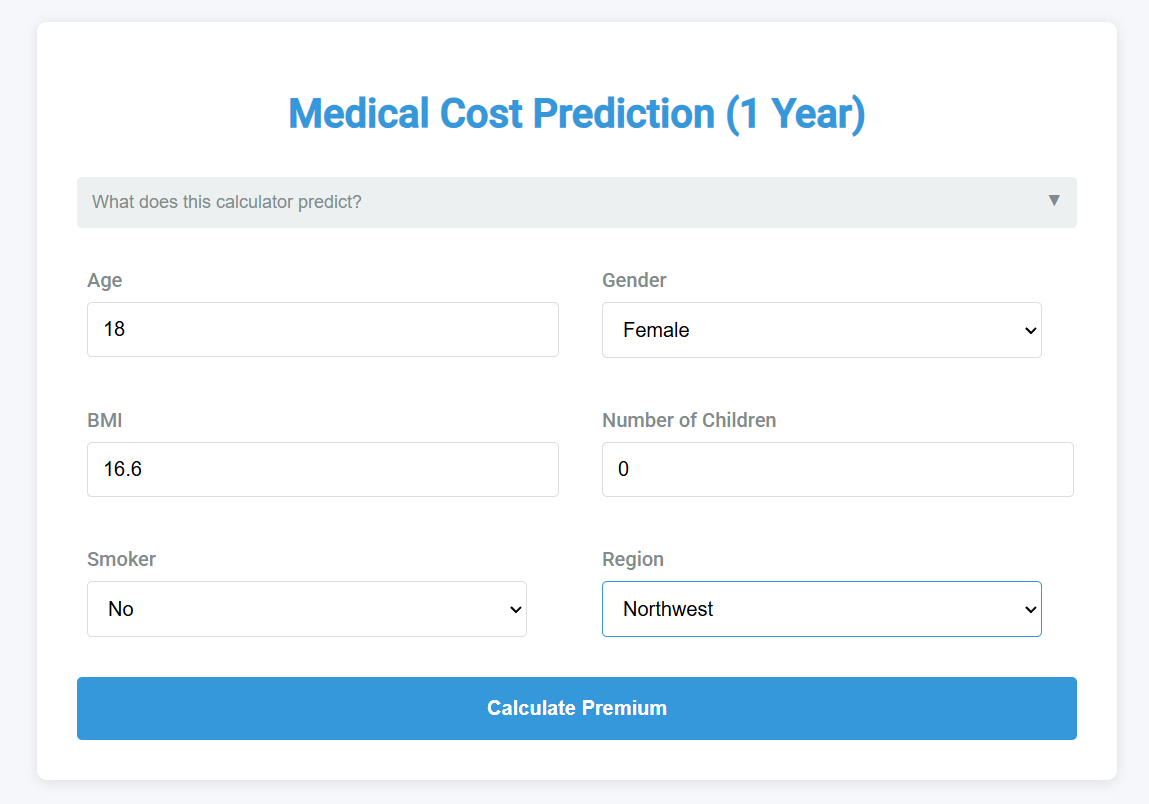
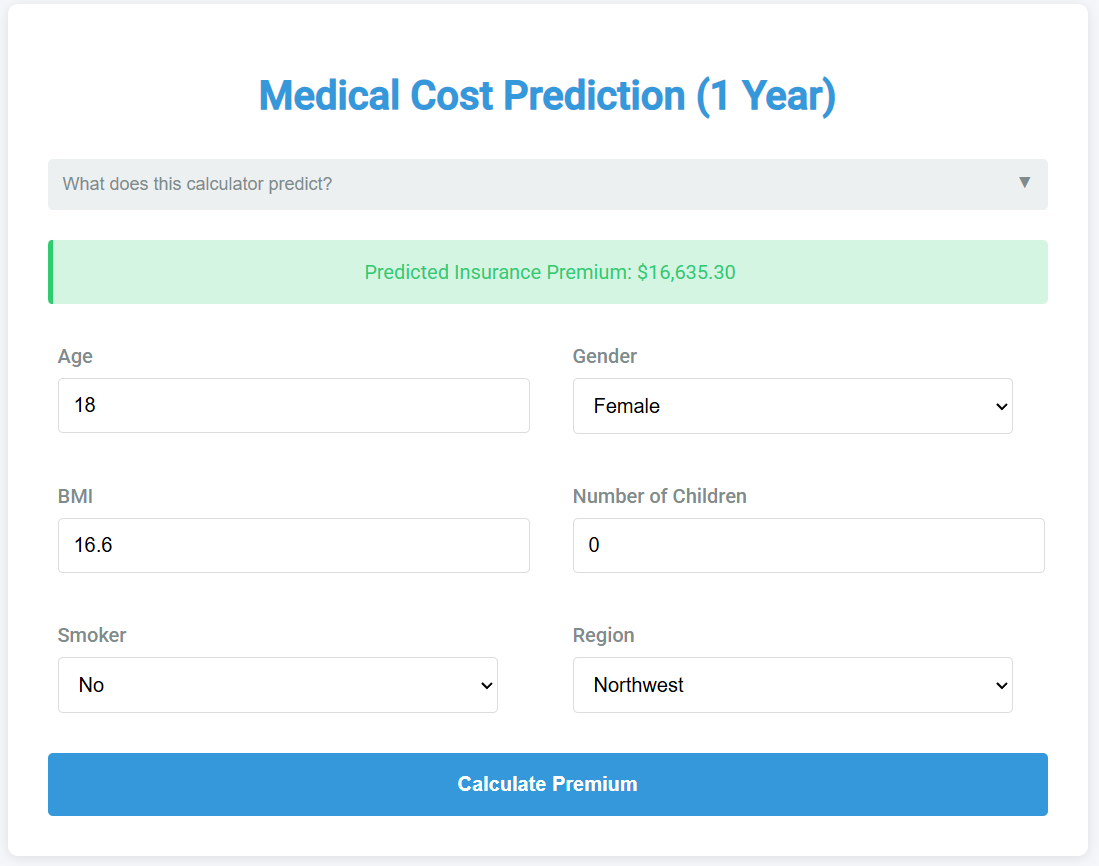
import fix and demo fix

diff --git a/venv/health-insurance-prediction/app.py b/venv/health-insurance-prediction/app.py
@@ -4,7 +4,7 @@ import joblib
 import os
 import numpy as np
 
-from .config import *
+from config import *
 
 app = Flask(__name__)
 
